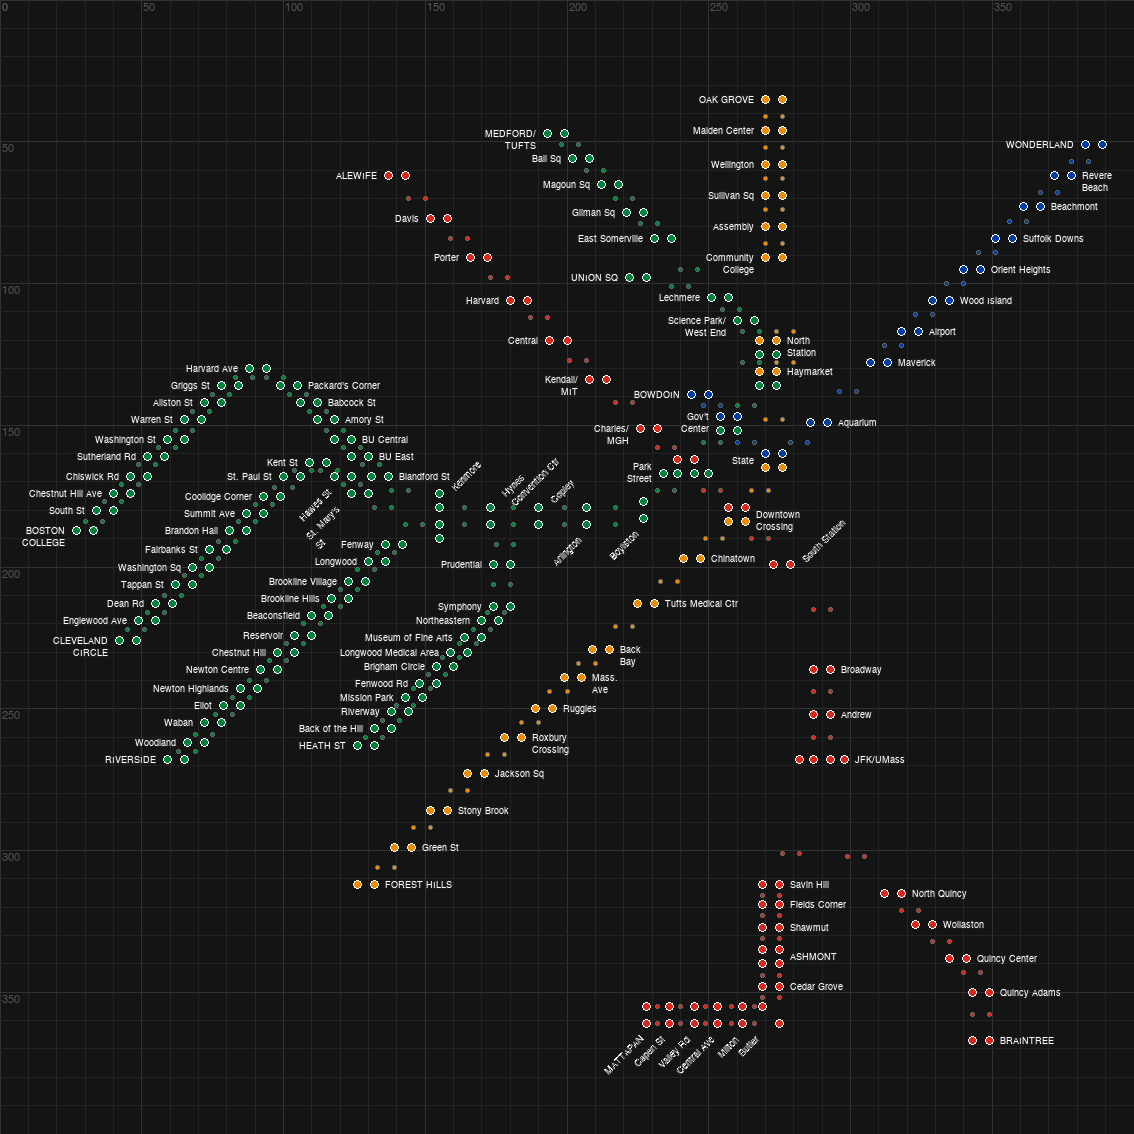
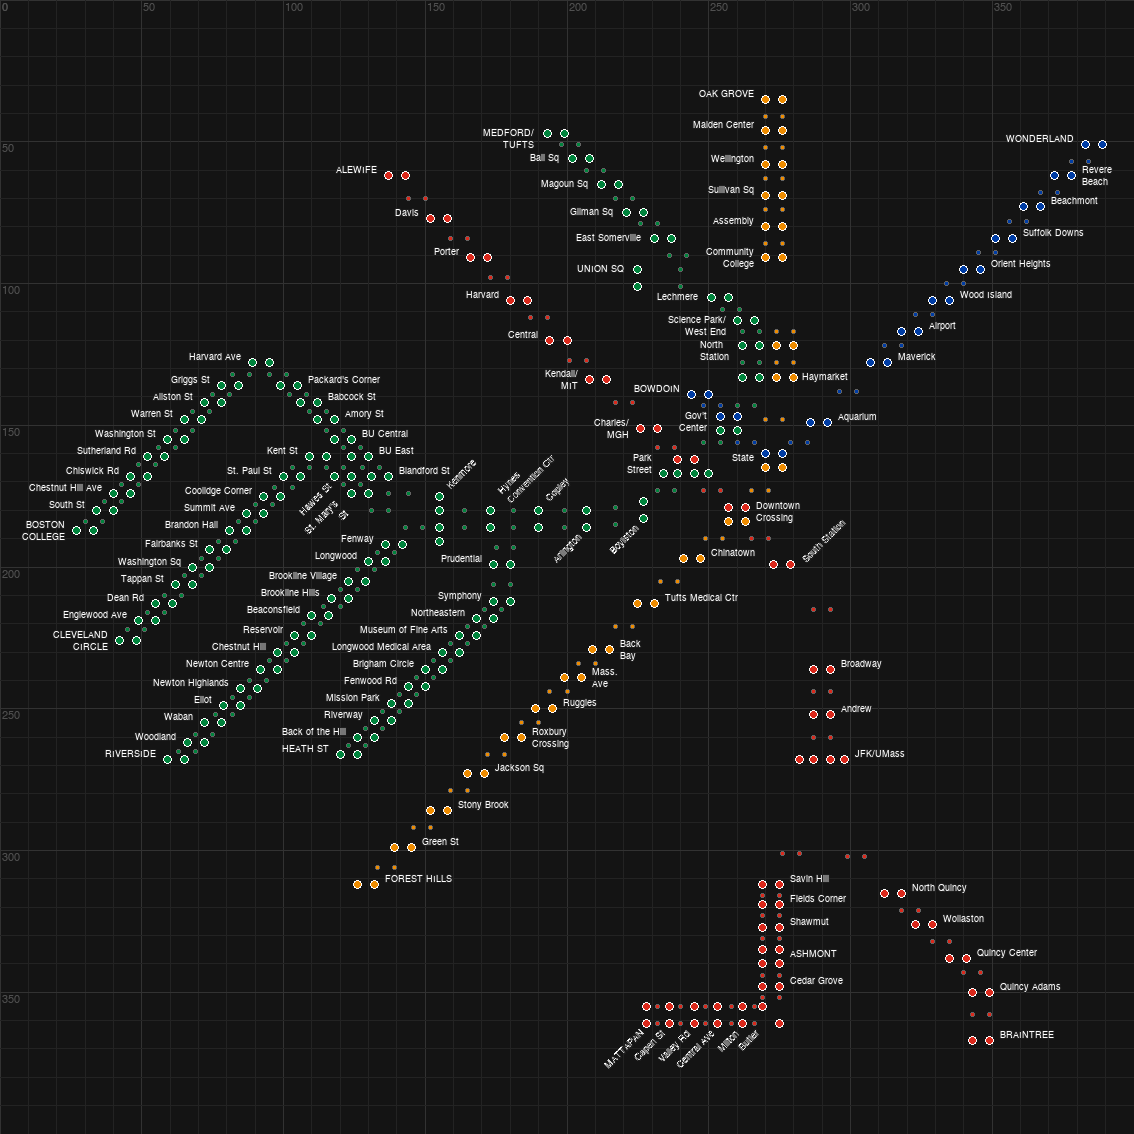
Fine-tune LED and label positions across green, orange, and blue lines
- Re-space E branch (Symphony→Heath St) with uniform Δx=-3, Δy=+3 per
  half-step (~4.2mm gaps) to fix overly tight midpoint spacing
- Shift Arlington→Kenmore trunk down 1mm for better map balance
- Add label_x_offset/label_y_offset support to left, right, and
  above-right label positions in draw_led_grid.py
- Adjust Copley, Hynes, Kenmore labels up 2mm and left 2mm
- Shift Medford extension labels (Medford/Tufts→Lechmere) down 2mm,
  left 1mm; Science Park label down 2mm
- Move Lechmere↔Union Square midpoints up 3mm total
- Swap North Station (left) and Haymarket (right) label sides on orange
- Apply label offsets to North Station and Haymarket (orange) and
  Gov't Center (blue); hide duplicate green line labels for those stations
- Adjust Harvard Ave station right 1mm, up 2mm; adjacent midpoints up 1mm

diff --git a/tools/draw_led_grid.py b/tools/draw_led_grid.py
@@ -104,7 +104,10 @@ def draw_leds(draw, img, leds, color, font, simple=False, all_station_leds=None)
                           (px - txt_img.width // 2, py + gap_px),
                           txt_img)
             elif pos == "above-right":
-                txt_img = Image.new("RGBA", (300, 20), (0, 0, 0, 0))
+                # Canvas height scales to line count; line 2 anchors at LED
+                ar_lines = label.split("\n")
+                ar_h = len(ar_lines) * 14 + 4
+                txt_img = Image.new("RGBA", (300, ar_h), (0, 0, 0, 0))
                 txt_draw = ImageDraw.Draw(txt_img)
                 txt_draw.text((0, 0), label, fill="white", font=font,
                               stroke_width=1, stroke_fill=(30, 30, 30))
@@ -114,58 +117,70 @@ def draw_leds(draw, img, leds, color, font, simple=False, all_station_leds=None)
                 txt_img = txt_img.rotate(45, expand=True)
                 max_x = max(l["x"] for l in all_station_leds.get(led["stop_name"].replace("\n", " "), [led]))
                 anchor_px = int(max_x * MM)
+                label_y_off = int(led.get("label_y_offset", 0) * MM)
+                label_x_off = int(led.get("label_x_offset", 0) * MM)
                 img.paste(txt_img,
-                          (anchor_px + gap_px, py - txt_img.height),
+                          (anchor_px + gap_px + label_x_off, py - txt_img.height + label_y_off),
                           txt_img)
             elif pos == "below-left":
-                txt_img = Image.new("RGBA", (300, 20), (0, 0, 0, 0))
+                bl_lines = label.split("\n")
+                bl_h = len(bl_lines) * 14 + 4
+                txt_img = Image.new("RGBA", (300, bl_h), (0, 0, 0, 0))
                 txt_draw = ImageDraw.Draw(txt_img)
-                txt_draw.text((0, 0), label, fill="white", font=font,
-                              stroke_width=1, stroke_fill=(30, 30, 30))
+                align = led.get("label_alignment", "left")
+                bl_widths = [txt_draw.textbbox((0, 0), ln, font=font)[2] - txt_draw.textbbox((0, 0), ln, font=font)[0] for ln in bl_lines]
+                bl_max_w = max(bl_widths)
+                for j, ln in enumerate(bl_lines):
+                    lx = bl_max_w - bl_widths[j] if align == "right" else 0
+                    txt_draw.text((lx, j * 14), ln, fill="white", font=font,
+                                  stroke_width=1, stroke_fill=(30, 30, 30))
                 bbox = txt_img.getbbox()
                 if bbox:
                     txt_img = txt_img.crop(bbox)
                 txt_img = txt_img.rotate(45, expand=True)
-                # Anchor from bottommost LED
                 max_y = max(l["y"] for l in all_station_leds.get(led["stop_name"].replace("\n", " "), [led]))
                 anchor_py = int(max_y * MM)
                 img.paste(txt_img,
-                          (px - txt_img.width, anchor_py + gap_px),
+                          (px - txt_img.width, anchor_py + gap_px // 2),
                           txt_img)
             elif pos == "left":
                 min_x = min(l["x"] for l in all_station_leds.get(led["stop_name"].replace("\n", " "), [led]))
                 anchor_px = int(min_x * MM)
                 align = led.get("label_alignment", "right")
+                label_y_off = int(led.get("label_y_offset", 0) * MM)
+                label_x_off = int(led.get("label_x_offset", 0) * MM)
                 text_lines = label.split("\n")
                 line_widths = [draw.textbbox((0, 0), ln, font=font)[2] - draw.textbbox((0, 0), ln, font=font)[0] for ln in text_lines]
                 max_tw = max(line_widths)
                 for j, ln in enumerate(text_lines):
                     tw = line_widths[j]
                     if align == "right":
-                        lx = anchor_px - gap_px - tw
+                        lx = anchor_px - gap_px - tw + label_x_off
                     elif align == "center":
-                        lx = anchor_px - gap_px - max_tw // 2 - tw // 2
+                        lx = anchor_px - gap_px - max_tw // 2 - tw // 2 + label_x_off
                     else:
-                        lx = anchor_px - gap_px - max_tw
-                    ly = py - 3 + j * 12
+                        lx = anchor_px - gap_px - max_tw + label_x_off
+                    ly = py - r - int(2 * MM) + j * 12 + label_y_off
                     draw.text((lx, ly), ln, fill="white", font=font,
                               stroke_width=1, stroke_fill=(30, 30, 30))
             elif pos == "right":
                 max_x = max(l["x"] for l in all_station_leds.get(led["stop_name"].replace("\n", " "), [led]))
                 anchor_px = int(max_x * MM)
                 align = led.get("label_alignment", "left")
+                label_y_off = int(led.get("label_y_offset", 0) * MM)
+                label_x_off = int(led.get("label_x_offset", 0) * MM)
                 text_lines = label.split("\n")
                 line_widths = [draw.textbbox((0, 0), ln, font=font)[2] - draw.textbbox((0, 0), ln, font=font)[0] for ln in text_lines]
                 max_tw = max(line_widths)
                 for j, ln in enumerate(text_lines):
                     tw = line_widths[j]
                     if align == "right":
-                        lx = anchor_px + gap_px + max_tw - tw
+                        lx = anchor_px + gap_px + max_tw - tw + label_x_off
                     elif align == "center":
-                        lx = anchor_px + gap_px + max_tw // 2 - tw // 2
+                        lx = anchor_px + gap_px + max_tw // 2 - tw // 2 + label_x_off
                     else:
-                        lx = anchor_px + gap_px
-                    ly = py - 3 + j * 12
+                        lx = anchor_px + gap_px + label_x_off
+                    ly = py - r - int(2 * MM) + j * 12 + label_y_off
                     draw.text((lx, ly), ln, fill="white", font=font,
                               stroke_width=1, stroke_fill=(30, 30, 30))
             elif pos == "center":
@@ -189,7 +204,7 @@ def draw_leds(draw, img, leds, color, font, simple=False, all_station_leds=None)
                     else:
                         center_x = (min_x + max_x) // 2
                         lx = center_x - tw // 2
-                    ly = center_y - 3 + j * 12
+                    ly = center_y - total_height // 2 + j * 12
                     draw.text((lx, ly), ln, fill="white", font=font,
                               stroke_width=1, stroke_fill=(30, 30, 30))
         else:
